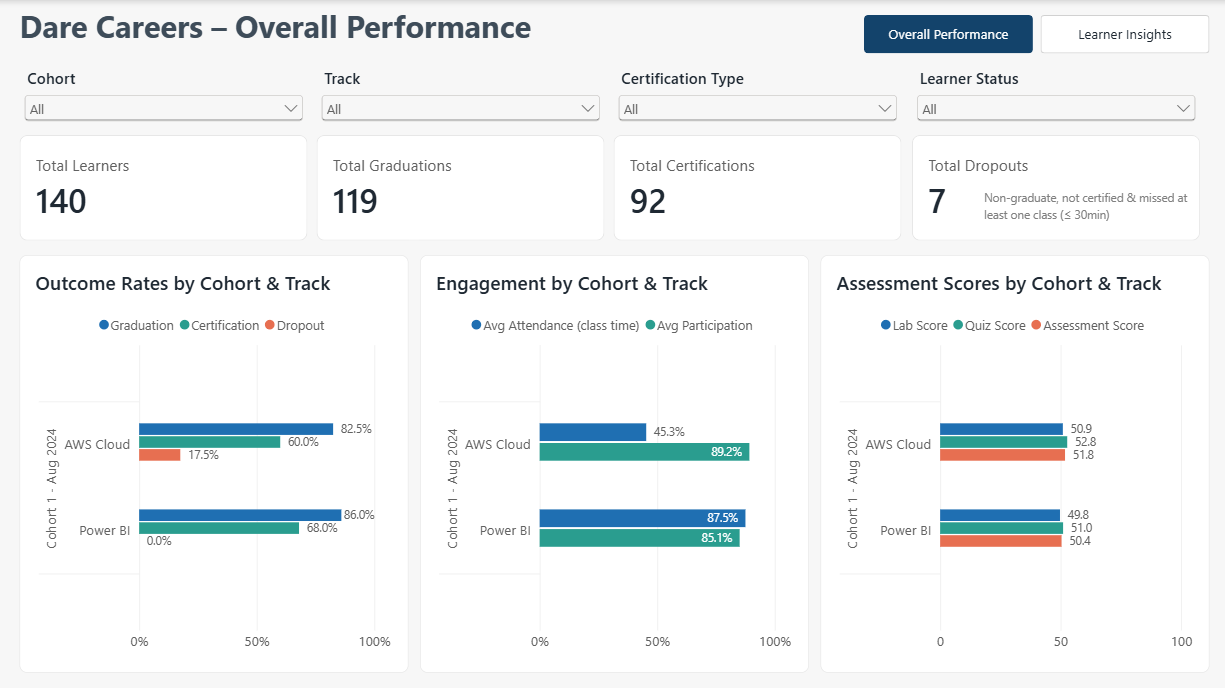
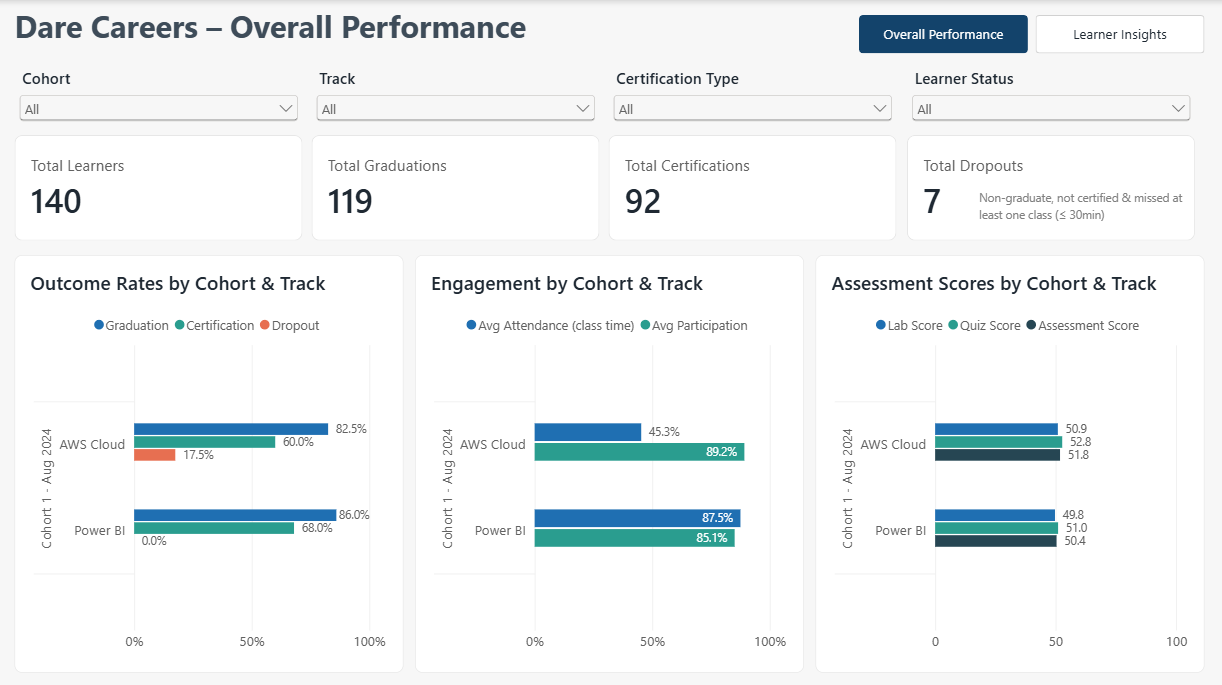
Phase 6B: data dictionary

diff --git a/Docs/data-dictionary.md b/Docs/data-dictionary.md
@@ -1,0 +1,283 @@
+# Data Dictionary
+
+This document describes every data source and every table in the Dare Careers dashboard:
+where the data comes from, what each column means, and how it was prepared.
+
+**Contents**
+
+1. [Folder layout](#1-folder-layout)
+2. [Raw source files](#2-raw-source-files)
+3. [Differences between the two tracks](#3-differences-between-the-two-tracks)
+4. [Model tables](#4-model-tables)
+5. [Relationships](#5-relationships)
+6. [Parameters, helper queries and functions](#6-parameters-helper-queries-and-functions)
+7. [Data quality notes](#7-data-quality-notes)
+8. [Adding a new cohort](#8-adding-a-new-cohort)
+
+---
+
+## 1. Folder layout
+
+```
+Data/
+└── Cohort 1 - Aug 2024/              ← one folder per cohort (folder name = cohort name)
+    ├── Cloud Training/               ← AWS Cloud track
+    │   ├── Zoom Attendance/
+    │   │   └── Week 1/ … Week 10/    ← one CSV per class day, e.g. 05-Aug-2024.csv
+    │   ├── labs_and_quizzes.xlsx
+    │   ├── participant_status.xlsx
+    │   └── participation.xlsx
+    └── PowerBI Training/             ← Power BI track
+        ├── Zoom Attendance/
+        │   └── Week 1/ … Week 10/
+        ├── Labs & Quizes.xlsx
+        ├── Participation records.xlsx
+        └── Status of Participanat.xlsx
+```
+
+The cohort, track, week and class date are **not stored inside the files**. They are read from the
+folder and file names:
+
+| Information | Where it comes from | Example |
+|---|---|---|
+| Cohort | First folder under `Data/` | `Cohort 1 - Aug 2024` |
+| Track | Track folder name | `Cloud Training` → **AWS Cloud**, `PowerBI Training` → **Power BI** |
+| Week | `Week N` folder name | `Week 3` → **3** |
+| Class date | First 11 characters of the Zoom file name | `05-Aug-2024.csv` → **05 Aug 2024** |
+
+---
+
+## 2. Raw source files
+
+### Zoom attendance (CSV, one file per class day)
+
+| Column | Meaning |
+|---|---|
+| Name | Learner's full name |
+| Email | Learner's email address (used to identify the learner) |
+| Join Time | Time the learner joined the Zoom session |
+| Leave Time | Time the learner left |
+| Duration | Time spent in the session (format differs by track, see section 3) |
+| Role | `Participant` for learners |
+
+### Labs & Quizzes (Excel, one workbook per track)
+
+Two sheets, **Labs** and **Quizzes**, each with one row per learner:
+
+| Column | Meaning |
+|---|---|
+| email | Learner's email address |
+| Week 1 … Week 10 | Score for that week's lab or quiz, from 0 to 100 |
+
+### Participation (Excel, one workbook per track)
+
+One row per class day:
+
+| Column | Meaning |
+|---|---|
+| Date | Class date, stored as text, e.g. `05-Aug-2024` |
+| Participants | Comma-separated **names** (not emails) of everyone who participated that day |
+
+### Status (Excel, one workbook per track)
+
+One row per learner:
+
+| Column | Meaning | Values |
+|---|---|---|
+| email | Learner's email address | |
+| Graduation Status | Whether the learner graduated | `Graduate`, `Non Graduate` |
+| Certification Status | Whether the learner was certified | `Certified`, `Not Certified` |
+
+---
+
+## 3. Differences between the two tracks
+
+The two tracks hold the same kind of information but format it differently. Power Query handles every
+difference, so **the raw files are never edited**.
+
+| | Power BI track | AWS Cloud track | How it's handled |
+|---|---|---|---|
+| Learners | 100 | 40 | |
+| Email format | `emilyjohnson@example.com` | `james.williams@msc.com` | Emails are lowercased and trimmed |
+| Zoom Duration | Text `1:46:00` (hours:minutes:seconds) | Whole minutes, e.g. `66` | `fn_DurationToMinutes` converts both to minutes |
+| Zoom times | 12-hour, e.g. `06:02 PM` | 24-hour, e.g. `18:09` | Converted with an English (US) locale, which reads both |
+| Labs & Quizzes file | `Labs & Quizes.xlsx` | `labs_and_quizzes.xlsx` | Found by the word "quiz" in the file name |
+| Participation file | `Participation records.xlsx` | `participation.xlsx` | Found by the word "participation" |
+| Status file | `Status of Participanat.xlsx` | `participant_status.xlsx` | Found by the word "status" |
+| Participation sheet name | `Sheet1` | `Participation` | The first sheet is read, whatever its name |
+
+---
+
+## 4. Model tables
+
+The model follows a **star schema**: *dimension* tables describe **who** and **when**, and *fact* tables
+record **what happened**. Columns marked *hidden* are used by relationships and calculations but are not
+shown to report users.
+
+### `dim_Learner`: one row per learner enrolment (140 rows)
+
+| Column | Type | Description |
+|---|---|---|
+| Learner Key | Text | *Hidden.* Unique ID: `Cohort | Track | Email`. Lets the same person appear in a future cohort or another track |
+| Email | Text | Learner's email (lowercased) |
+| Learner Name | Text | Full name, looked up from the Zoom files. Shows the email if the learner never joined Zoom |
+| Cohort | Text | Cohort name, from the cohort folder. Sorted by Cohort Start Date |
+| Track | Text | `Power BI` or `AWS Cloud` |
+| Cohort Start Date | Date | *Hidden.* Monday of the week of the cohort's first class |
+| Cohort End Date | Date | *Hidden.* Friday of the final program week |
+| Program Status | Text | `Completed` once the cohort end date has passed, otherwise `Ongoing` |
+| Graduation Status | Text | `Graduate` / `Non Graduate`, from the Status file |
+| Certification Status | Text | `Certified` / `Not Certified`. Shown as **Learner Status** on the dashboard |
+| Certification Type | Text | `AWS` or `Power BI`, based on the track |
+| Classes Held | Whole number | Class sessions held for the learner's cohort and track |
+| Classes Attended | Whole number | Classes attended for **more than 30 minutes** |
+| Weeks Attended | Whole number | Number of different weeks with at least one attended class |
+| Last Week Attended | Whole number | Latest week with an attended class (0 if none) |
+| Has Incomplete Attendance | True/False | True if Classes Attended is less than Classes Held |
+| Is Graduate | 1/0 | *Hidden.* 1 if Graduate. Summed by the graduation measures |
+| Is Certified | 1/0 | *Hidden.* 1 if Certified |
+| Is Dropout | 1/0 | *Hidden.* 1 if Non Graduate **and** Not Certified **and** Has Incomplete Attendance, once the program has completed |
+
+### `dim_Date`: one row per calendar day (70 rows for the current cohort)
+
+Covers every day from the earliest cohort start to the end of the latest cohort's final week.
+
+| Column | Type | Description |
+|---|---|---|
+| Date | Date | The calendar day. Marked as the model's date table |
+| Month | Text | e.g. `Aug 2024`. Used by the Month slicer. Sorted by Month Sort |
+| Month Sort | Whole number | *Hidden.* e.g. `202408`, so months sort in date order |
+| Day Name | Text | e.g. `Monday`. Sorted by Day of Week |
+| Day of Week | Whole number | *Hidden.* 1 = Monday … 7 = Sunday |
+
+### `dim_Week`: one row per program week (10 rows)
+
+| Column | Type | Description |
+|---|---|---|
+| Week | Whole number | Program week, 1 to 10, counted from each cohort's own start date |
+| Week Label | Text | e.g. `Week 3`. Used by the Week slicer. Sorted by Week |
+
+### `fact_Attendance`: one row per learner per class they joined
+
+A learner who did not join a class has **no row** for that day.
+
+| Column | Type | Description |
+|---|---|---|
+| Learner Key | Text | *Hidden.* Links to `dim_Learner` |
+| Cohort, Track | Text | *Hidden.* Kept for checking; filtering uses `dim_Learner` |
+| Week | Whole number | *Hidden.* From the `Week N` folder. Links to `dim_Week` |
+| Date | Date | *Hidden.* From the file name. Links to `dim_Date` |
+| Email, Name | Text | *Hidden.* As recorded by Zoom |
+| Join Time | Time | Earliest join time that day |
+| Leave Time | Time | Latest leave time that day |
+| Minutes | Decimal | Total minutes in the session (added up if the learner left and rejoined) |
+| Attended | True/False | **True only if Minutes is more than 30** (the project's attendance rule) |
+| Class Time % | Percentage | Minutes ÷ 120-minute class, capped at 100% |
+
+### `fact_Participation`: one row per learner per day they participated (6,037 rows)
+
+| Column | Type | Description |
+|---|---|---|
+| Learner Key | Text | *Hidden.* Found by matching Cohort + Track + Name to `dim_Learner` |
+| Cohort, Track | Text | *Hidden.* |
+| Week | Whole number | *Hidden.* Calculated from the date and the cohort start date |
+| Date | Date | *Hidden.* Class date |
+| Email | Text | *Hidden.* Looked up from `dim_Learner` |
+| Name | Text | *Hidden.* Name as written in the participation file |
+
+### `fact_Assessments`: one row per learner per week per assessment type (2,800 rows)
+
+| Column | Type | Description |
+|---|---|---|
+| Learner Key | Text | *Hidden.* Links to `dim_Learner` |
+| Cohort, Track | Text | *Hidden.* |
+| Type | Text | `Lab` or `Quiz` (from the sheet name) |
+| Week | Whole number | *Hidden.* Program week. Links to `dim_Week` |
+| Week Start Date | Date | *Hidden.* Monday of that program week. Links to `dim_Date` |
+| Email | Text | *Hidden.* |
+| Score | Decimal | *Hidden.* Score from 0 to 100. A 0 is treated as "not submitted" when counting completed labs |
+
+### `fact_ClassSessions`: one row per class held, per cohort and track (100 rows)
+
+Built from the Zoom file names only. Used to work out how many classes each learner **could** have
+attended, so that attendance and participation rates are fair across cohorts and tracks. The whole
+table is hidden.
+
+| Column | Type | Description |
+|---|---|---|
+| Cohort | Text | Cohort name |
+| Track | Text | Track |
+| Week | Whole number | Program week. Links to `dim_Week` |
+| Date | Date | Class date. Links to `dim_Date` |
+
+### `_Measures`
+
+Holds all DAX measures, grouped into five display folders. It has no data and no relationships; each
+measure refers directly to the tables it needs. See [`DAX/measures.md`](../DAX/measures.md).
+
+---
+
+## 5. Relationships
+
+All relationships are **one-to-many** and filter in **one direction**: from the dimension to the fact table.
+
+| From (one) | To (many) |
+|---|---|
+| `dim_Learner[Learner Key]` | `fact_Attendance[Learner Key]` |
+| `dim_Learner[Learner Key]` | `fact_Participation[Learner Key]` |
+| `dim_Learner[Learner Key]` | `fact_Assessments[Learner Key]` |
+| `dim_Date[Date]` | `fact_Attendance[Date]` |
+| `dim_Date[Date]` | `fact_Participation[Date]` |
+| `dim_Date[Date]` | `fact_Assessments[Week Start Date]` |
+| `dim_Date[Date]` | `fact_ClassSessions[Date]` |
+| `dim_Week[Week]` | `fact_Attendance[Week]` |
+| `dim_Week[Week]` | `fact_Participation[Week]` |
+| `dim_Week[Week]` | `fact_Assessments[Week]` |
+| `dim_Week[Week]` | `fact_ClassSessions[Week]` |
+
+---
+
+## 6. Parameters, helper queries and functions
+
+These are used during data preparation only and are not loaded into the report.
+
+| Name | Kind | Purpose |
+|---|---|---|
+| `RootFolder` | Parameter (text) | Full path to the repo's `Data\` folder, ending with a backslash. The only setting to change on a new computer |
+| `ProgramWeeks` | Parameter (number) | Length of the program in weeks (10) |
+| `src_AllFiles` | Query | Lists every file under `RootFolder`. The starting point of every other query |
+| `stg_Cohorts` | Query | One row per cohort with its start date, end date and Program Status |
+| `fn_DurationToMinutes` | Function | Converts a Zoom duration (`1:46:00`, `66`, or a time value) to minutes |
+| `fn_GetCohort` | Function | Returns the cohort name from a file's folder path |
+| `fn_GetTrack` | Function | Returns `Power BI` or `AWS Cloud` from a file's folder path |
+
+The M code for every query is in the [`Power Query/`](../Power%20Query/) folder.
+
+---
+
+## 7. Data quality notes
+
+| Observation | Impact and handling |
+|---|---|
+| Participation lists **names**, not emails | Names are matched to learners by cohort, track and name. All 140 learners matched; no names were left unmatched |
+| No learner appears in both tracks | Learner Key still includes the track, so the model stays correct if that changes |
+| Every Power BI learner attended all 50 classes for more than 30 minutes | Power BI attendance rate is 100%. The rule is still applied, and it matters for AWS Cloud |
+| Some sessions were **exactly 30 minutes** (e.g. one AWS Cloud learner on 05-Aug-2024) | Counted as **not attended**, because the rule requires *more than* 30 minutes |
+| 24 lab scores and 13 quiz scores are 0 | A 0 lab is treated as not submitted (not counted as completed) but is kept in averages |
+| No missing values in scores or statuses | No rows were removed |
+| Assessments are recorded per week, not per day | Each is dated to the Monday of its week; Week 9 (30 Sep – 4 Oct) therefore counts as September |
+| File name typos (e.g. "Participanat", "Quizes") | Left as they are; files are found by keyword rather than exact name |
+
+---
+
+## 8. Adding a new cohort
+
+1. Create a new folder under `Data/`, e.g. `Data/Cohort 2 - Jan 2025/`.
+2. Inside it, add `Cloud Training/` and/or `PowerBI Training/` with the same layout as Cohort 1:
+   a `Zoom Attendance` folder with `Week 1` … `Week 10` sub-folders, plus the three Excel files.
+3. Keep the Zoom file names in the `dd-MMM-yyyy.csv` format, and keep "quiz", "participation" and
+   "status" in the Excel file names.
+4. Open the report and click **Refresh**.
+
+The new cohort then appears in the Cohort slicer and in every chart. Its start date, program status,
+week numbers and attendance rates are worked out automatically.
